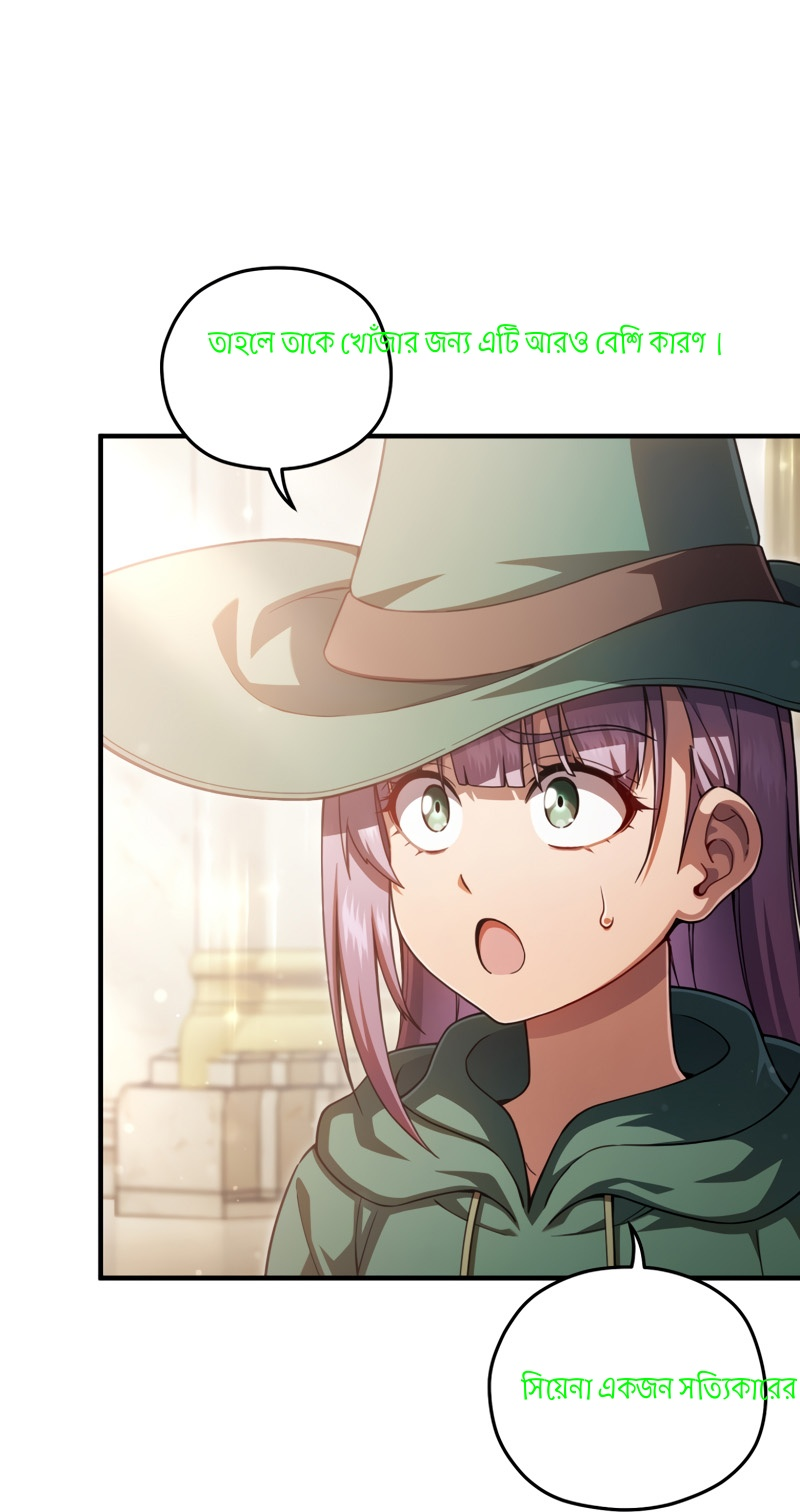
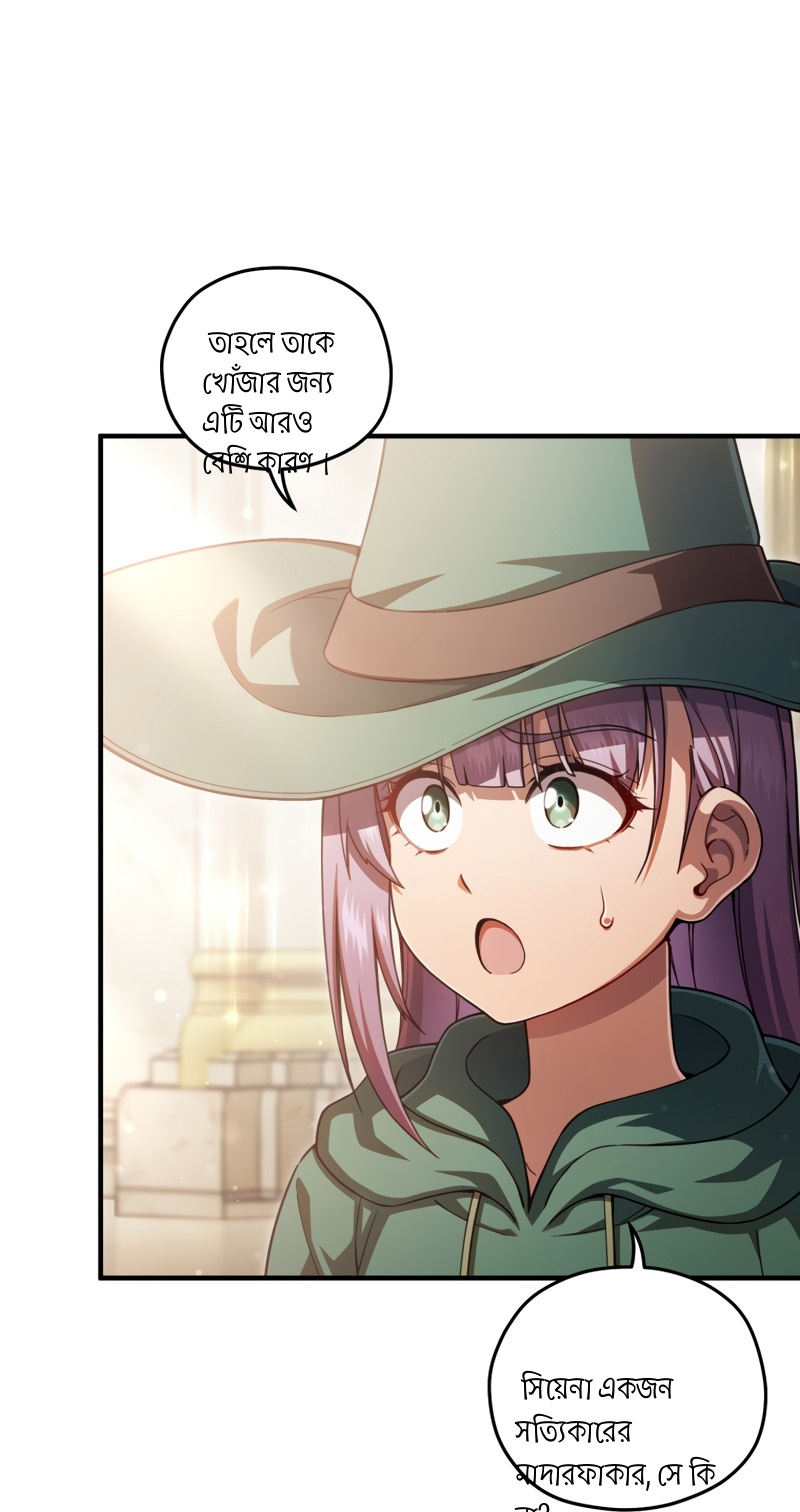
added cleanRaw

Changed region(s): [[0.25, 0.2176, 0.9062, 0.3108], [0.625, 0.9015, 1.0, 1.0]]

diff --git a/printRegional.py b/printRegional.py
@@ -16,34 +16,30 @@ def putText(image, text, cords, font, size, color, thickness, fileNumber):
     # img = np.array(img_pil)
     print("putText called")
     print(text)
+    img_pil = Image.fromarray(image)
+    draw = ImageDraw.Draw(img_pil)
     for i in range(len(cords)):
         if len(cords) == 0:
             return image
         x, y, w, h = cords[i]
         print(x, y, w, h)
+        text_width, text_height = draw.textsize(text[i], font)
 
-        # # characterWidth = cv.getTextSize(text[i], font, size, 1)
-        # (text_width, text_height), baseline = cv.getTextSize(text[i], font, size, thickness)
-        # print("text_width", text_width)
-        # print(text_width, text_height)
-        #
-        cv.rectangle(image, (x, y), (x + w, y + h), (255, 255, 255), -1)
-        # charwidth = text_width / len(text[i])
-        # charLength = int(w / charwidth)
-        # print(charLength, w, charwidth)
-        # # Draw the text on the image
-        # lines = textwrap.wrap(text[i], charLength)
-        # print(lines)
-        # k = y
-        # for line in lines:
-        #     print(line)
-        #     cv.putText(image, line, (x, k), font, size, color, 1, cv.LINE_AA)
-        #     cv.imwrite(f"files/output/{fileNumber}.jpg", image)
-        #     k += text_height
+        print("text_width", text_width)
+        print(text_width, text_height)
 
-        img_pil = Image.fromarray(image)
-        draw = ImageDraw.Draw(img_pil)
-        draw.text((x, y), text[i], font=font, fill=(b, g, r, a))
+        charwidth = text_width / len(text[i])
+        charLength = int(w / charwidth)
+        print(charLength, w, charwidth)
+        # Draw the text on the image
+        lines = textwrap.wrap(text[i], charLength)
+        print(lines)
+        k = y
+        for line in lines:
+            print(line)
+            # cv.putText(image, line, (x, k), font, size, color, 1, cv.LINE_AA)
+            draw.text((x, k), line, font=font, fill=(b, g, r, a))
+            k += text_height
         image = np.array(img_pil)
-        cv.imwrite(f"files/output/{fileNumber}.jpg", image)
+    cv.imwrite(f"files/output/{fileNumber}.jpg", image)
     return image

diff --git a/join.py b/join.py
@@ -5,6 +5,7 @@ from natsort import natsorted
 from ocr import ocr
 from printRegional import putText
 from translation import translate
+from cleanRawText import cleanRaw
 import json
 
 sys.argv = ["join.py", "Archive.zip", "en", "03.jpg"]
@@ -97,4 +98,7 @@ trans = translate(*texts)
 print("here will be english translation")
 font = cv.FONT_HERSHEY_SIMPLEX
 for i in range(len(croppedImages)):
+    croppedImages[i] = cleanRaw(croppedImages[i], cords[i])
+for i in range(len(croppedImages)):
+    print(f'i in printRegional is {i}')
     putText(croppedImages[i], trans[i], cords[i], font, .5, (0, 0, 0), 1, i)

diff --git a/cleanRawText.py b/cleanRawText.py
@@ -1,0 +1,10 @@
+import cv2 as cv
+
+
+def cleanRaw(image, cords):
+    for i in range(len(cords)):
+        if len(cords) == 0:
+            return image
+        x, y, w, h = cords[i]
+        cv.rectangle(image, (x, y), (x + w, y + h), (255, 255, 255), -1)
+    return image
